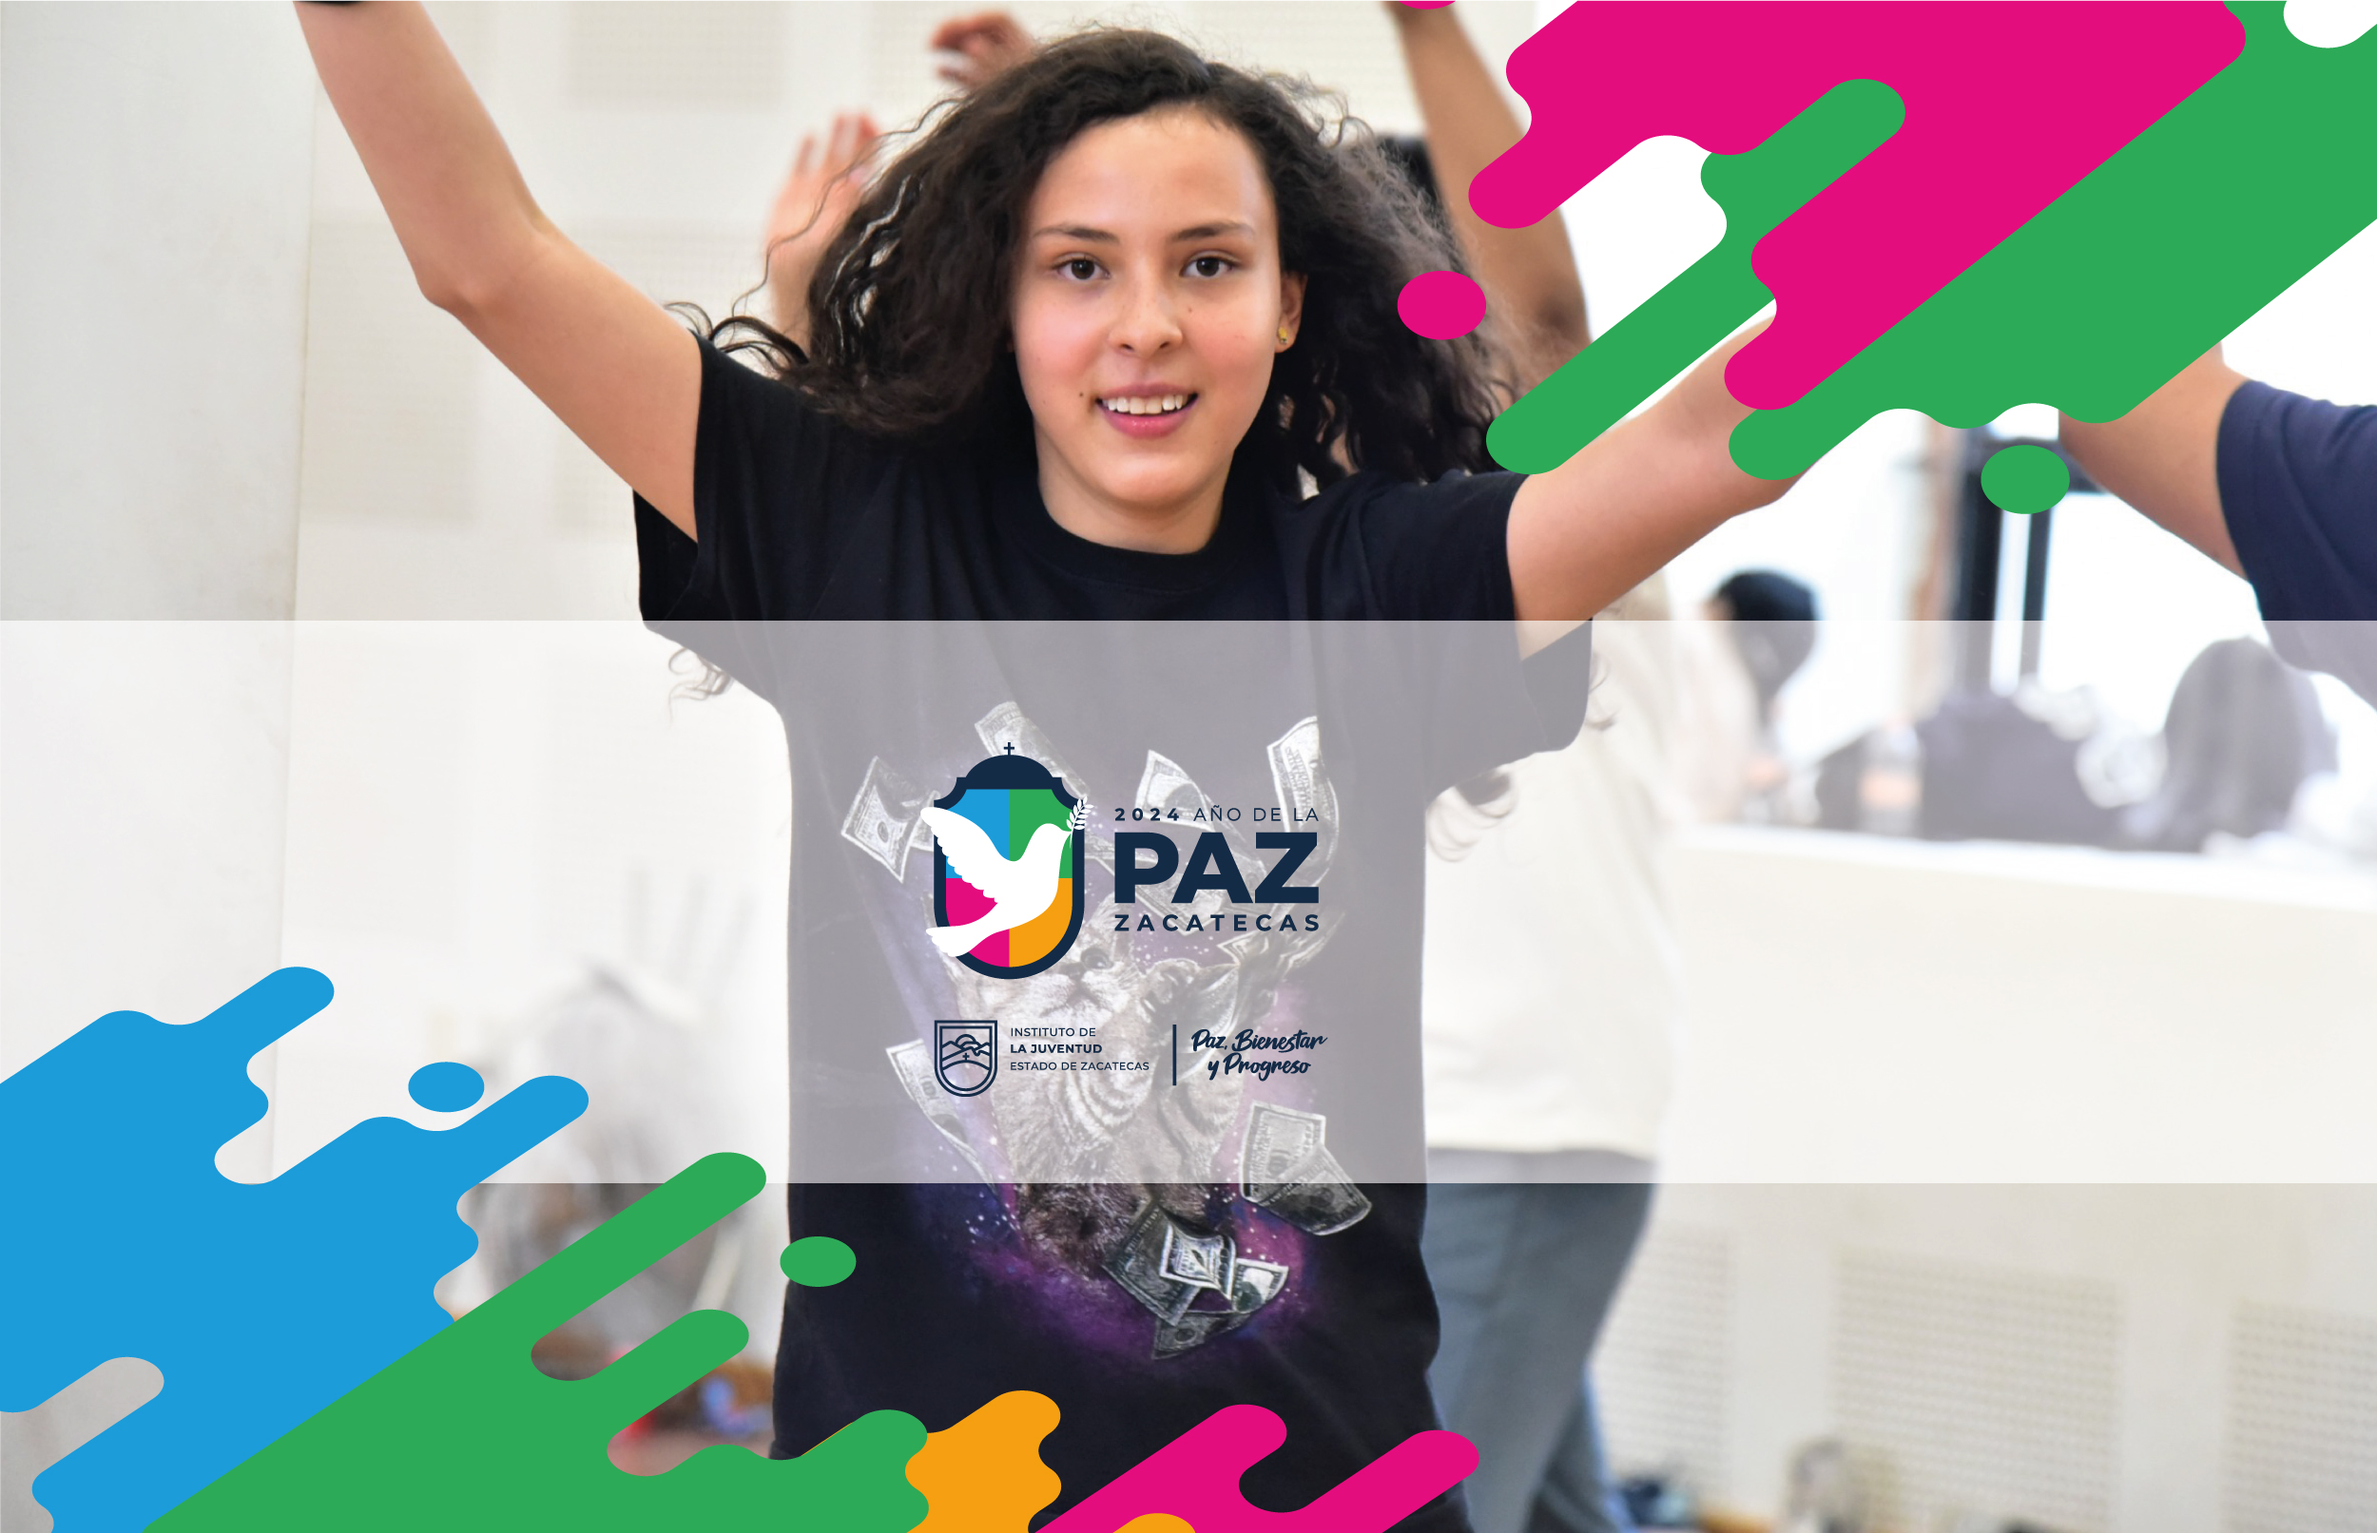
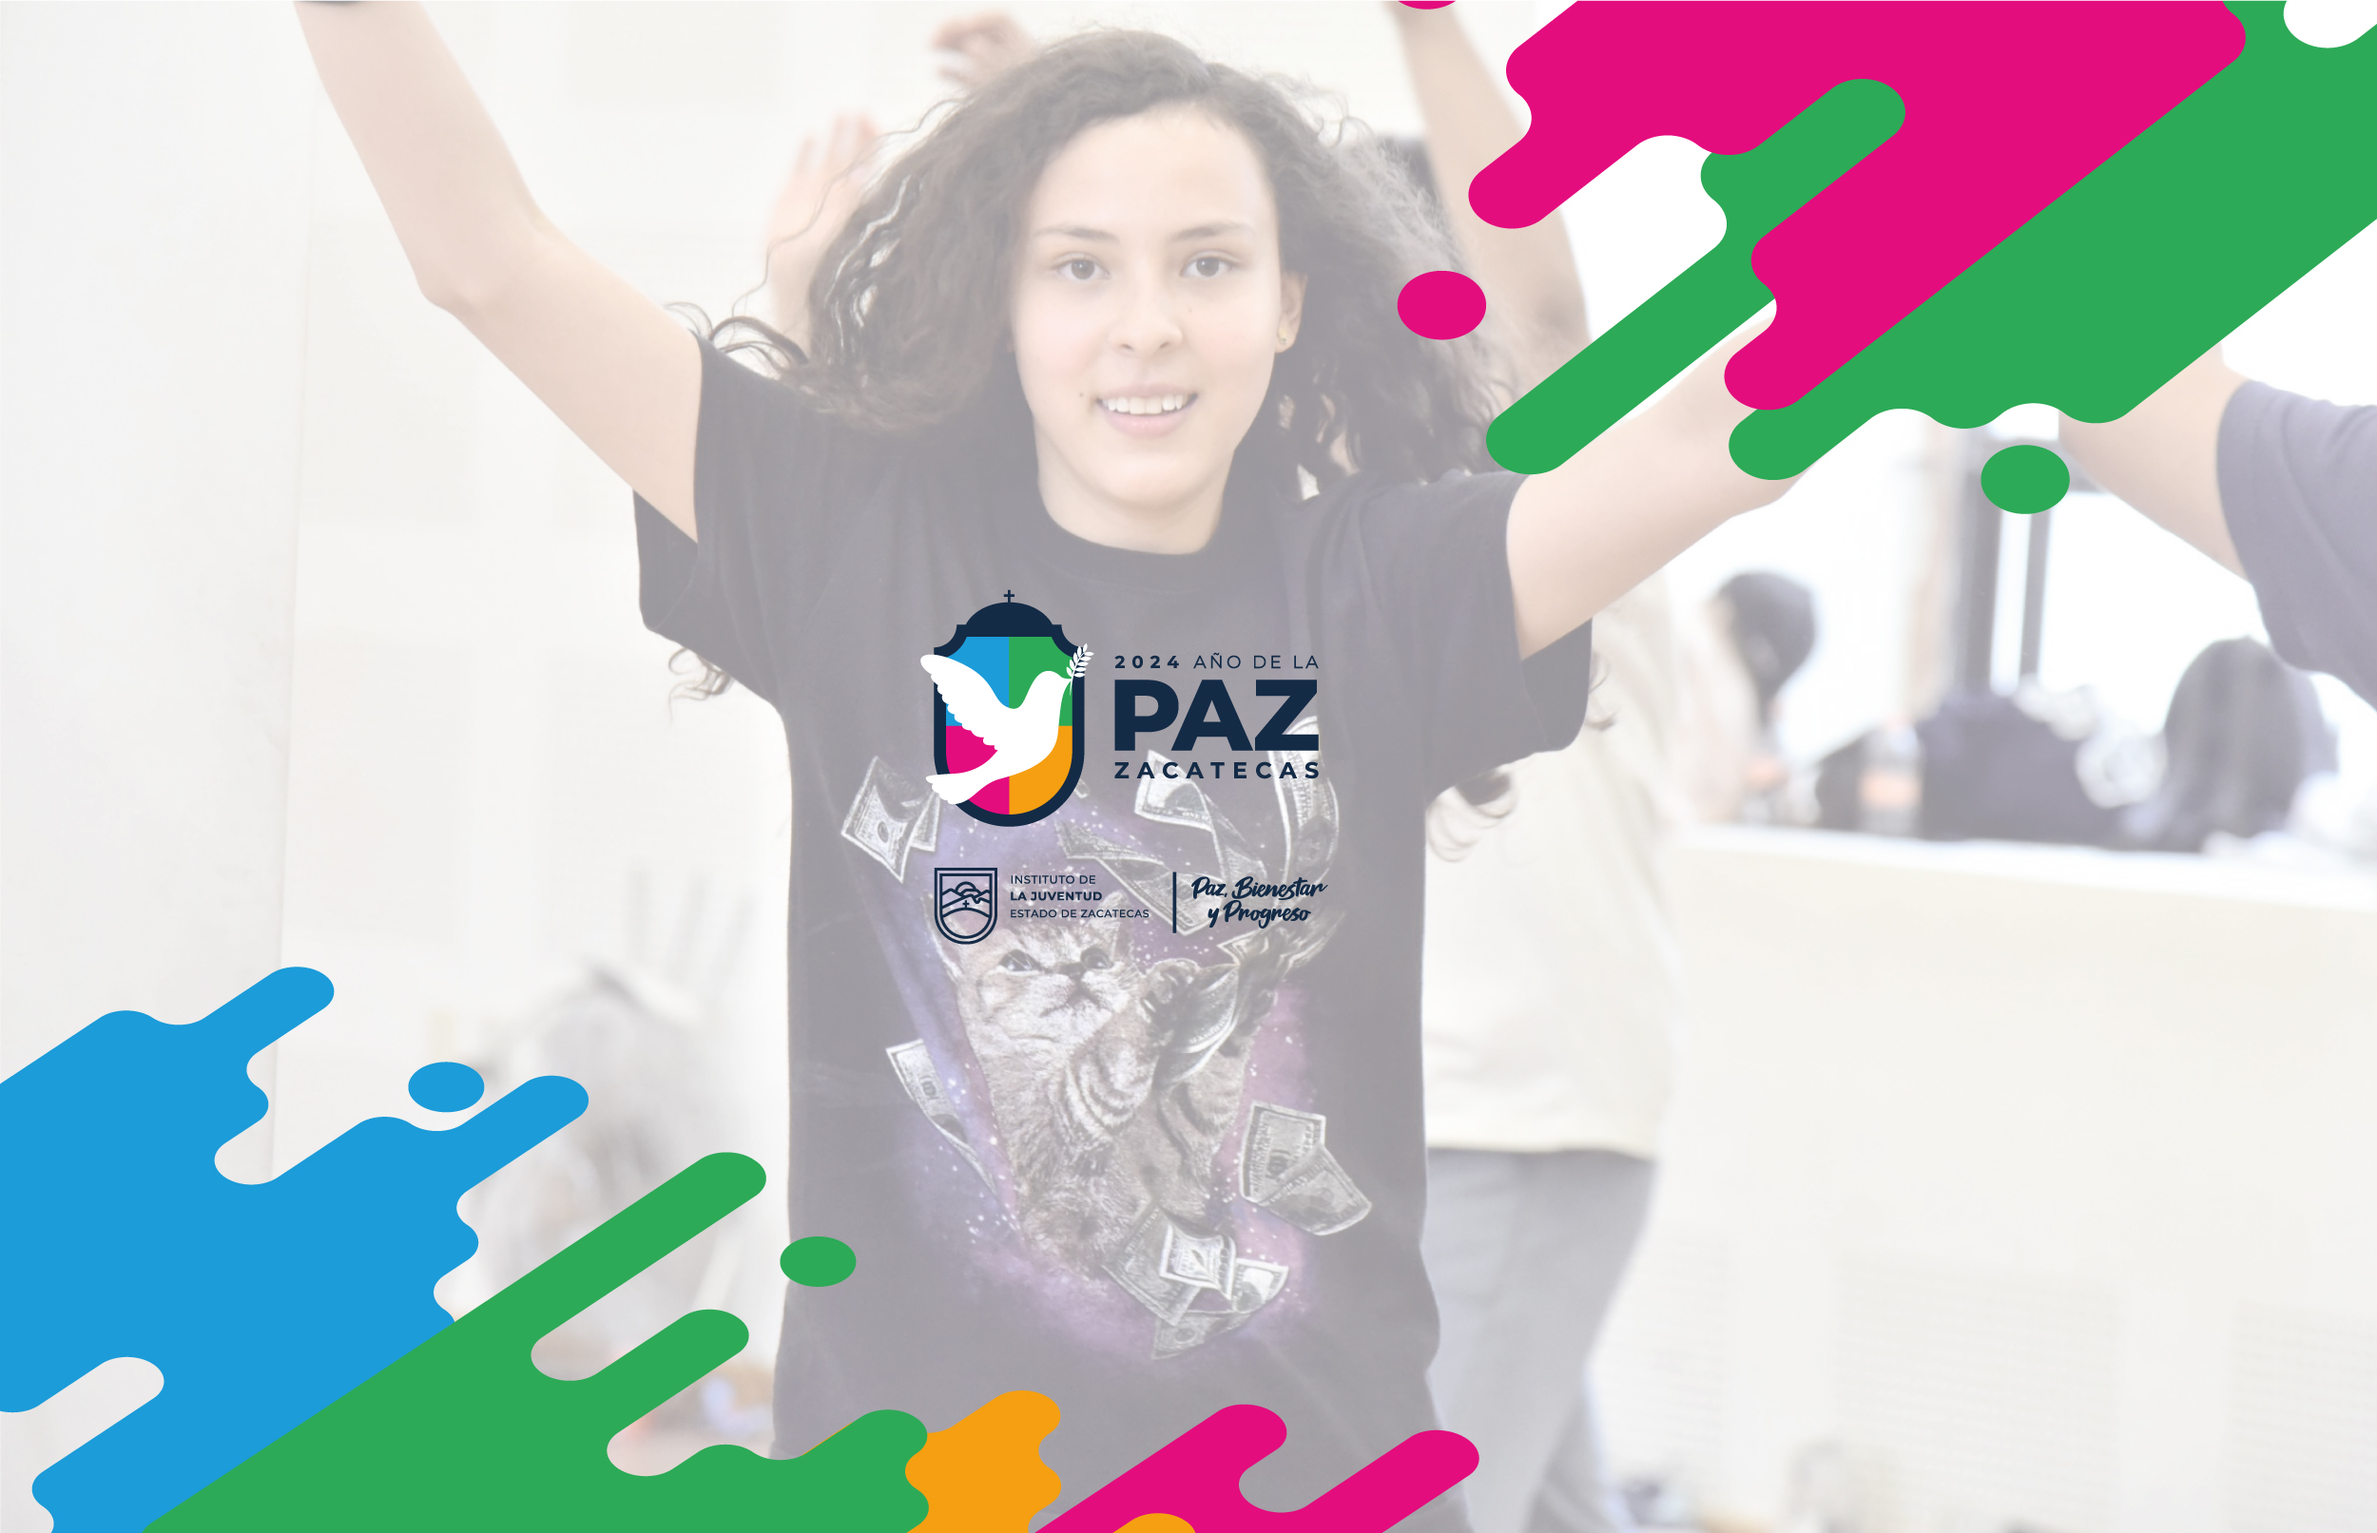
acomodos 5

diff --git a/index.html b/index.html
@@ -32,67 +32,11 @@
 	<link rel="preconnect" href="https://fonts.gstatic.com" crossorigin>
 	<link href="https://fonts.googleapis.com/css2?family=Montserrat:wght@100;200;400&display=swap" rel="stylesheet"> 
 	<link href="https://fonts.googleapis.com/css2?family=Montserrat:ital,wght@0,100..900;1,100..900&display=swap" rel="stylesheet">
+
+	<link rel="stylesheet" href="css/style.css">
+
 </head>
-<style>
-	html, body {
-            height: 100%;
-            margin: 0;
-            font-family: 'Montserrat', sans-serif;
-        }
-	#cardProgramas{
-		width: 18rem;
-	}
-	#paddingID{
-		padding: 10px; 
-	}
-	.textoA{
-		margin-bottom: 33px;
-	}
-	.textoB{
-		margin-bottom: 48px;
-	}
-	#titulos{
-		font-family: "Montserrat", sans-serif;
-  		font-optical-sizing: auto;
-  		font-weight: 800;
-  		font-style: normal;
 
-	}
-
-	/* .imagenD {
-    transition: zoom-in 1s ease;
-}
-
-	.zoom-in {
-		transform: scale(1.1);
-	} */
-	@media only screen and (max-width: 768px) {
-  /* For mobile phones: */
-	#imagenResp{
-		background-position: right center;
-	}
-	#cardProgramas{
-		width: 18rem;
-		margin-bottom: 5px;
-	}
-	#textoProgramas{
-		font-size: 12px;;
-
-	}
-	#paddingID{
-		padding: 0px; 
-	}
-	.textoA{
-		margin-bottom: 0px;
-	}
-	.textoB{
-		margin-bottom: 0px;
-	}
-	#titulos{
-		font-size: 27px;
-	}
-}
-</style>
 <body class=" animsition">
 	<!--Header-->
 	<header class="vlt-header vlt-header--default">
@@ -194,15 +138,29 @@
 			<!--Section-->
 			<div class="vlt-section pp-scrollable" data-anchor="inicio">
 				<div class="vlt-section__vertical-align">
-					<div class="vlt-section__content">
+					<!-- <div class="vlt-section__content w-100"> -->
 						<!--Ken Burn Effect-->
-						<div class="vlt-section__ken-burn-background">
-							<img id="imagen1" src="img/portafolio/imagen_fondo_paz_02.png" class="d-block w-100" alt="...">
-							<img id="imagen2" src="img/portafolio/imagen_fondo_paz_03.jpg" class="d-block w-100" alt="..." style="opacity: 0;">
-							<img id="imagen3" src="img/portafolio/imagen_fondo_paz_04.jpg" class="d-block w-100" alt="..." style="opacity: 0;">
-							<img id="imagen4" src="img/portafolio/imagen_fondo_paz_05.jpg" class="d-block w-100" alt="..." style="opacity: 0;">
+						<!-- <div class="vlt-section__ken-burn-background"> -->
+							<div class="imgC">
+
+								<div id="carouselExampleSlidesOnly" class="carousel slide" data-bs-ride="carousel">
+									<div class="carousel-inner">
+										<div class="carousel-item active backImg" style="background-image: url(img/portafolio/imagen_fondo_paz_02.png);">
+											<!-- Contenido de la primera diapositiva -->
+										</div>
+										<div class="carousel-item backImg" style="background-image: url('img/portafolio/imagen_fondo_paz_03.jpg');">
+											<!-- Contenido de la segunda diapositiva -->
+										</div>
+										<div class="carousel-item backImg" style="background-image: url('img/portafolio/imagen_fondo_paz_04.jpg');">
+											<!-- Contenido de la tercera diapositiva -->
+										</div>
+									</div>
+								</div>
+								
+
+							</div>
     						
-						</div>
+						<!-- </div> -->
 						<div class="container">
 							<div class="row">
 								<div class="col-lg-5" hidden>
@@ -231,7 +189,7 @@
 								</div>
 							</div>
 						</div>
-					</div>
+					<!-- </div> -->
 				</div>
 			</div>
 
@@ -485,52 +443,14 @@
 	<script src="assets/scripts/vlt-plugins.min.js"></script>
 	<script src="assets/scripts/vlt-helpers.js"></script>
 	<script src="assets/scripts/vlt-controllers.min.js"></script>
+
+	<script src="js/animate.js"></script>
+
+	
 </body>
 
 </html>
 
 <script>
-// Lista de imágenes
-var imagenes = [
-    "img/portafolio/imagen_fondo_paz_02.png",
-    "img/portafolio/imagen_fondo_paz_03.jpg",
-    "img/portafolio/imagen_fondo_paz_04.jpg",
-    "img/portafolio/imagen_fondo_paz_05.jpg"
-];
-var index = 0;
-
-// Función para cambiar la imagen cada 16 segundos
-function cambiarImagen() {
-    var img1 = document.getElementById("imagen1");
-    var img2 = document.getElementById("imagen2");
-    var img3 = document.getElementById("imagen3");
-    var img4 = document.getElementById("imagen4");
-
-    // Cambiar la ruta de las imágenes
-    img1.setAttribute("src", imagenes[index % imagenes.length]);
-    img2.setAttribute("src", imagenes[(index + 1) % imagenes.length]);
-    img3.setAttribute("src", imagenes[(index + 2) % imagenes.length]);
-    img4.setAttribute("src", imagenes[(index + 3) % imagenes.length]);
-
-    // Aplicar el efecto de cross-fade
-    setTimeout(function() {
-        // Cambiar la opacidad de la imagen 1 a 0
-        img1.style.transition = "opacity 1s ease";
-        img1.style.opacity = "0";
-
-        // Cambiar la opacidad de la imagen 2 a 1
-        img2.style.transition = "opacity 1s ease";
-        img2.style.opacity = "1";
-    }, 50); // Ajusta esto según la duración de la transición en CSS
-
-    // Incrementar el índice
-    index++;
-
-    // Llamar a la función nuevamente después de 16 segundos para repetir la secuencia
-    setTimeout(cambiarImagen, 16000);
-}
-
-// Llamar a la función inicialmente
-cambiarImagen();
 
 </script>

diff --git a/css/style.css b/css/style.css
@@ -1,0 +1,93 @@
+html, body {
+    height: 100%;
+    margin: 0;
+    font-family: 'Montserrat', sans-serif;
+}
+#cardProgramas{
+width: 18rem;
+}
+#paddingID{
+padding: 10px; 
+}
+.textoA{
+margin-bottom: 33px;
+}
+.textoB{
+margin-bottom: 48px;
+}
+#titulos{
+font-family: "Montserrat", sans-serif;
+  font-optical-sizing: auto;
+  font-weight: 800;
+  font-style: normal;
+
+}
+
+/* .imagenD {
+transition: zoom-in 1s ease;
+}
+
+.zoom-in {
+transform: scale(1.1);
+} */
+@media only screen and (max-width: 768px) {
+/* For mobile phones: */
+#imagenResp{
+background-position: right center;
+}
+#cardProgramas{
+width: 18rem;
+margin-bottom: 5px;
+}
+#textoProgramas{
+font-size: 12px;;
+
+}
+#paddingID{
+padding: 0px; 
+}
+.textoA{
+margin-bottom: 0px;
+}
+.textoB{
+margin-bottom: 0px;
+}
+#titulos{
+font-size: 27px;
+}
+}
+
+/* imágenes carusel */
+
+
+
+.imgC {
+    /* width: 100%; */
+    height: 100vh;
+}
+.vlt-section__content {
+    width: 100%;
+}
+
+.backImg{
+    height: 100vh;
+    width: 100%;
+    background-image: url(../img/portafolio/imagen_fondo_paz_02.png);
+    background-size: cover;
+    background-position:center;
+    background-repeat: no-repeat;
+
+    /* opacity: 1;
+    transition: opacity 0.5s ease-in-out; */
+
+    /* animation-name: animateD;
+    animation-direction: alternate-reverse;
+    animation-play-state: running;
+    animation-timing-function: ease-in-out;
+    animation-duration: 30s;
+    animation-fill-mode: forwards;
+    animation-iteration-count: infinite; */
+
+    /* animation: fade 20s infinite linear; */
+
+}
